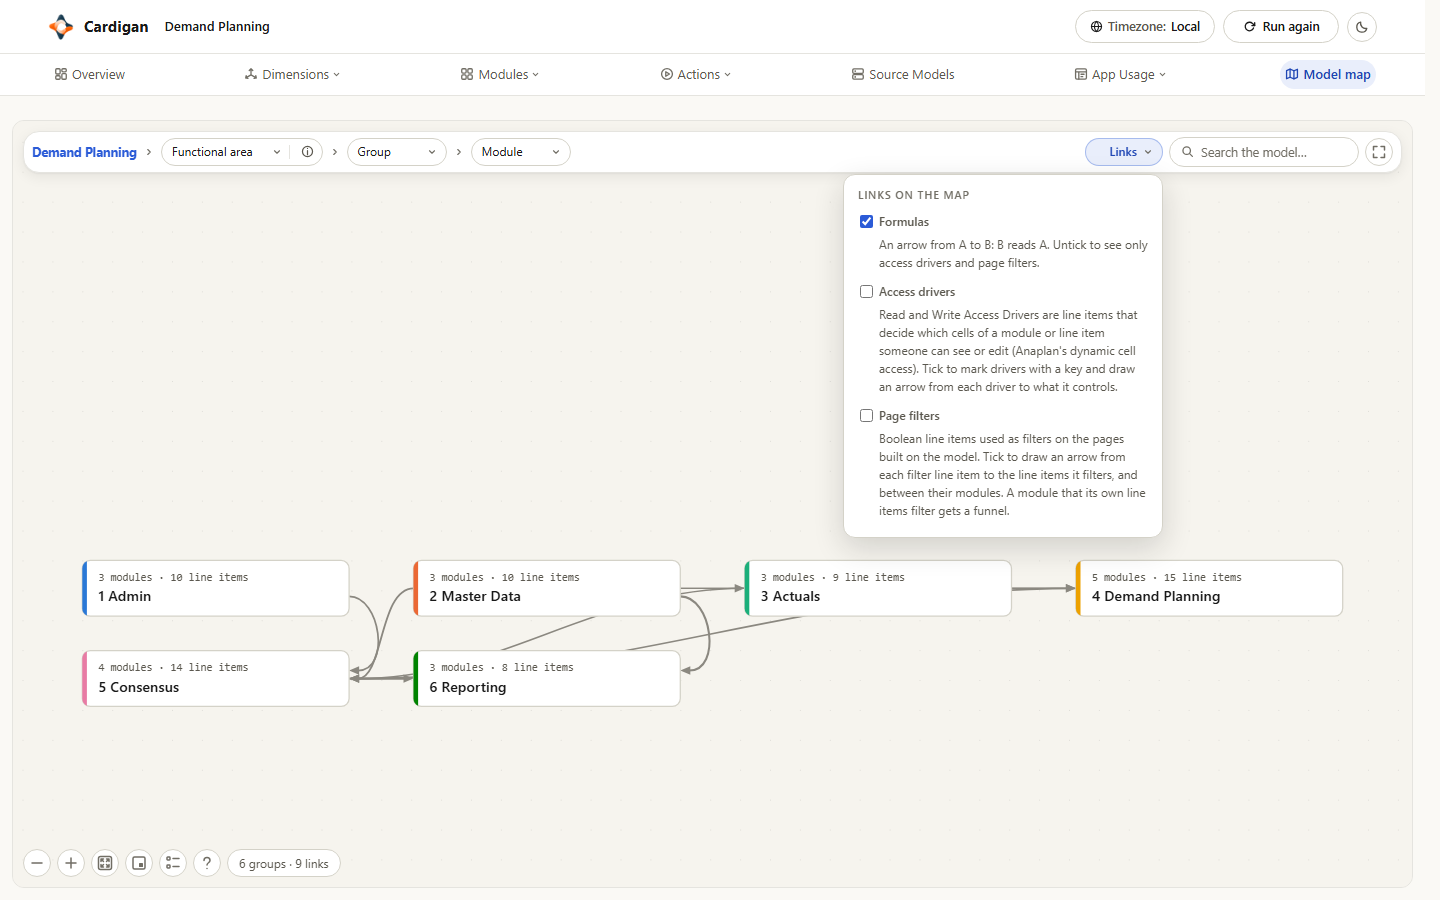
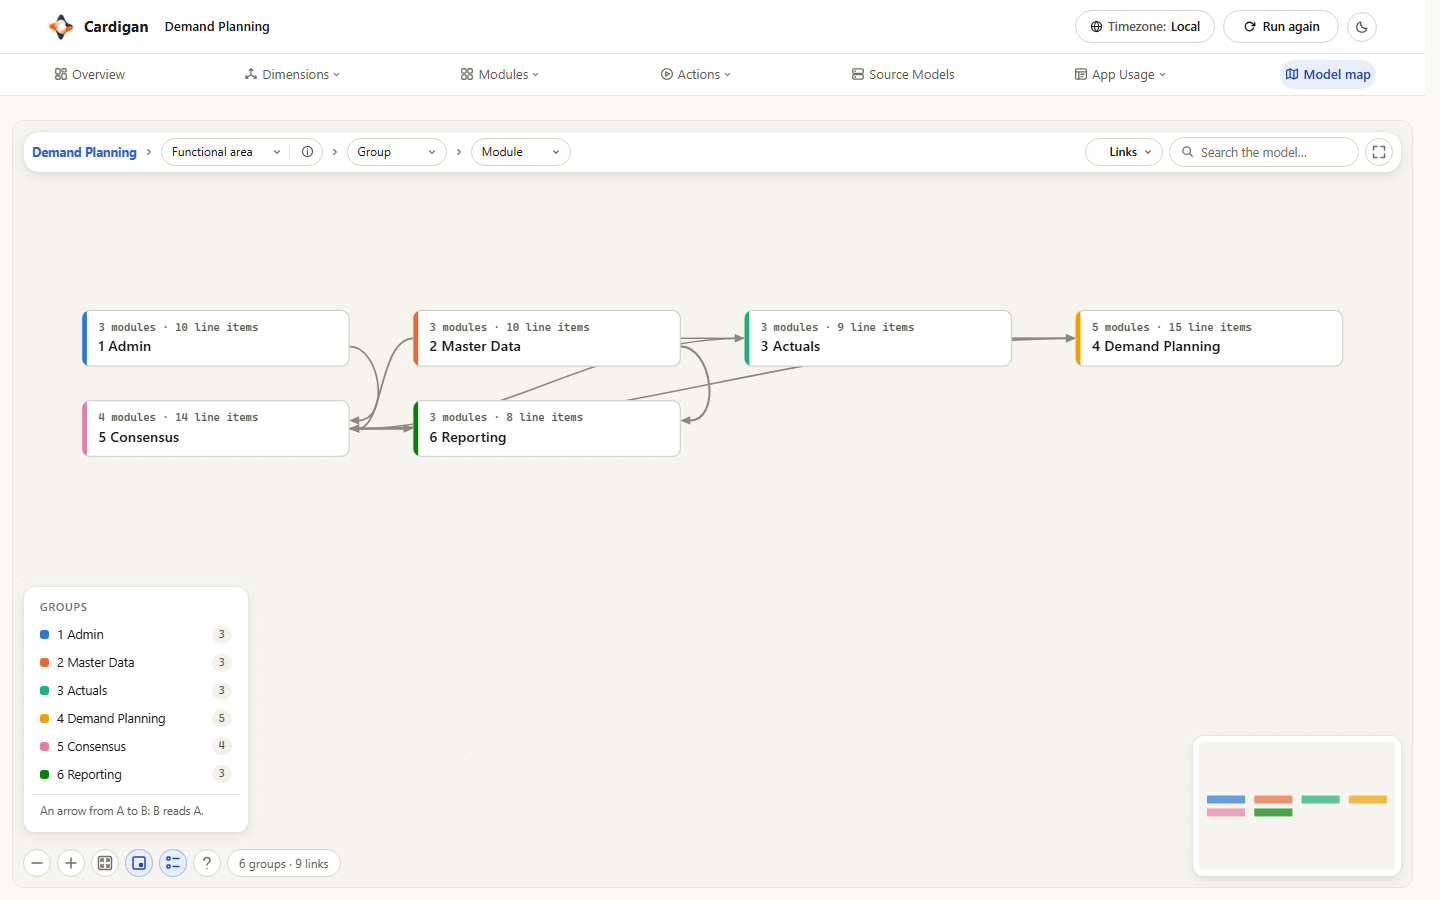
README pictures: Line Items without the note, the map with its default Legend and minimap

diff --git a/README.md b/README.md
@@ -88,7 +88,7 @@ The map shows how a model's groups, modules and line items connect. It is built 
 - Zoom out, Zoom in, Fit, Minimap, Legend and About share the controls row at the bottom left. **About** explains the map and its limits.
 - **Minimap** and **Legend** start open; the legend starts closed on very small maps and is absent when there are no layers. Both keep your open or closed choice for the tab. **Fit** leaves room for the open panels.
 
-![Light Model map grouped by Functional area, with Links open and the bottom-left controls row](docs/images/map-groups.png)
+![Light Model map grouped by Functional area, with the Legend, the minimap and the bottom-left controls row](docs/images/map-groups.png)
 
 ![Dark map of INP01 Sales Overrides line items with page-filter and access-driver links and Legend open](docs/images/map-line-items.png)
 
